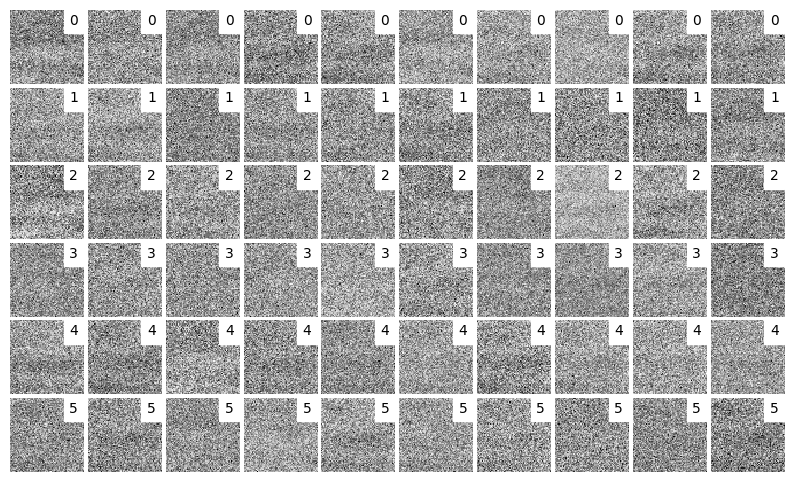
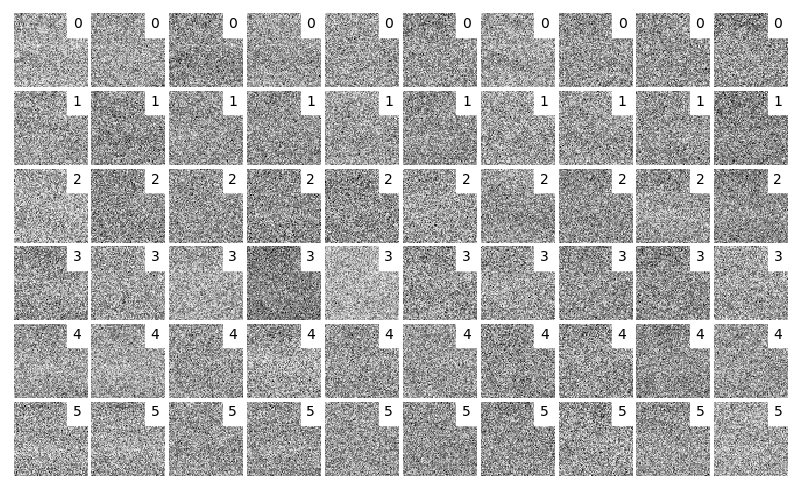
rerun, demos

diff --git a/StratGAN-ANN/main.py b/StratGAN-ANN/main.py
@@ -29,7 +29,7 @@ config.drop_remainder = True            # currently fails if false!
 
 config.z_dim = 100                      # number inputs to gener
 
-config.epoch = 5
+config.epoch = 10
 config.learning_rate = 0.002            # optim learn rate
 config.beta1 = 0.6                      # momentum
 config.batch_norm = True
